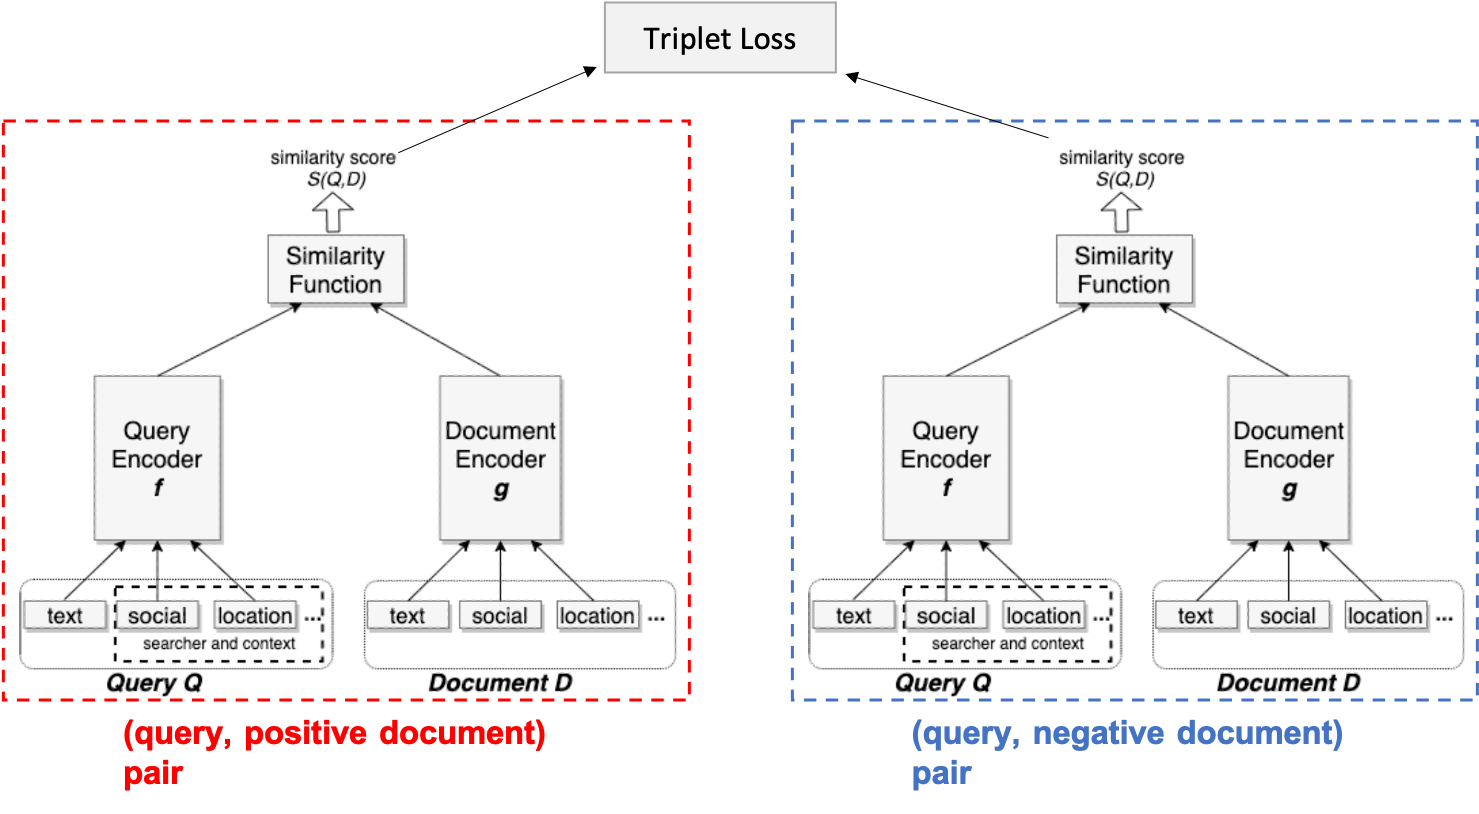
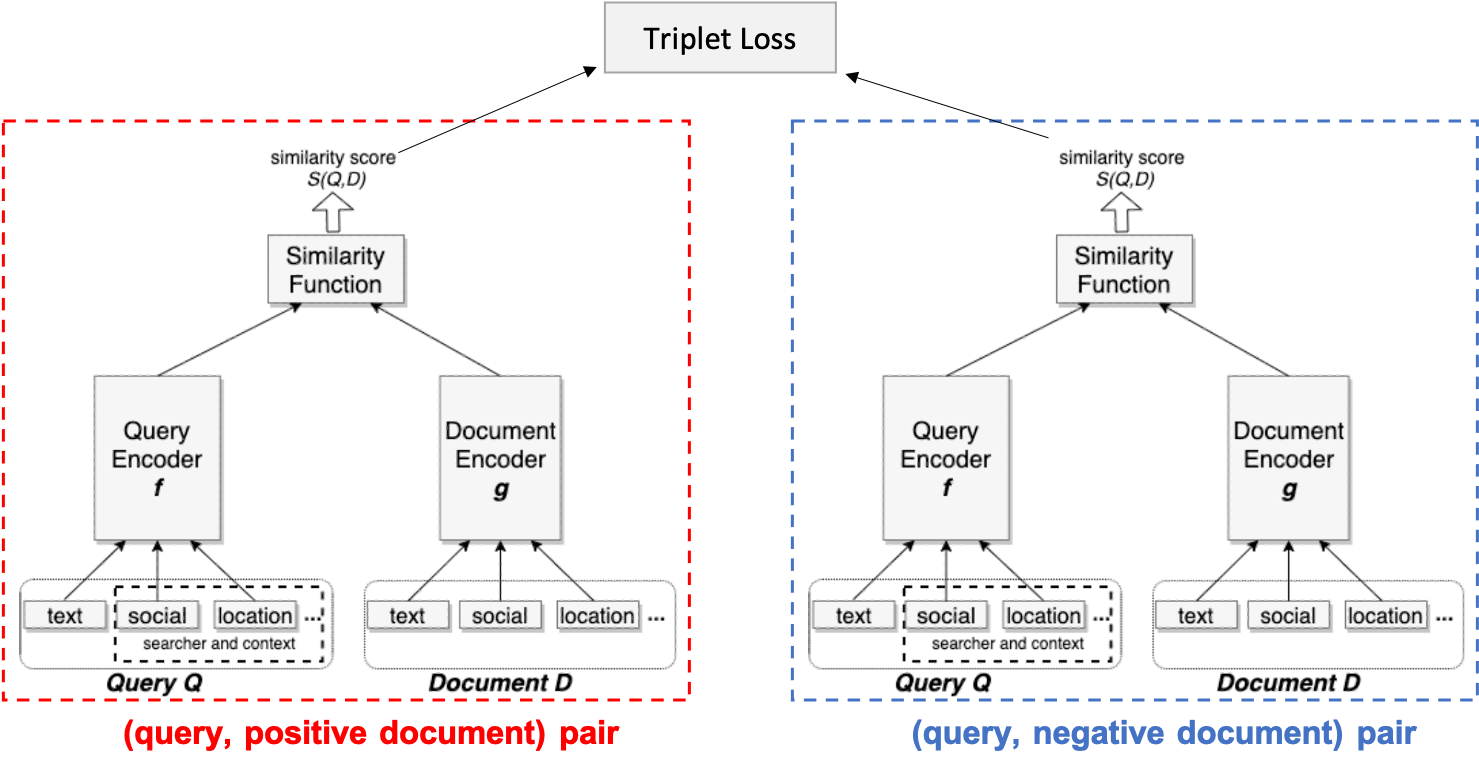
update

diff --git a/README.md b/README.md
@@ -3,7 +3,7 @@ Implementation of unified embedding model from Embedding-based Retrieval in Face
 
 ## Unified Embedding Model Architecture
 
-<img src="https://github.com/liyinxiao/UnifiedEmbeddingModel/tree/main/assets/model.png" width=750 />
+<img src="https://github.com/liyinxiao/UnifiedEmbeddingModel/blob/main/assets/model.png" width=750 />
 
 ## Example
 ```
